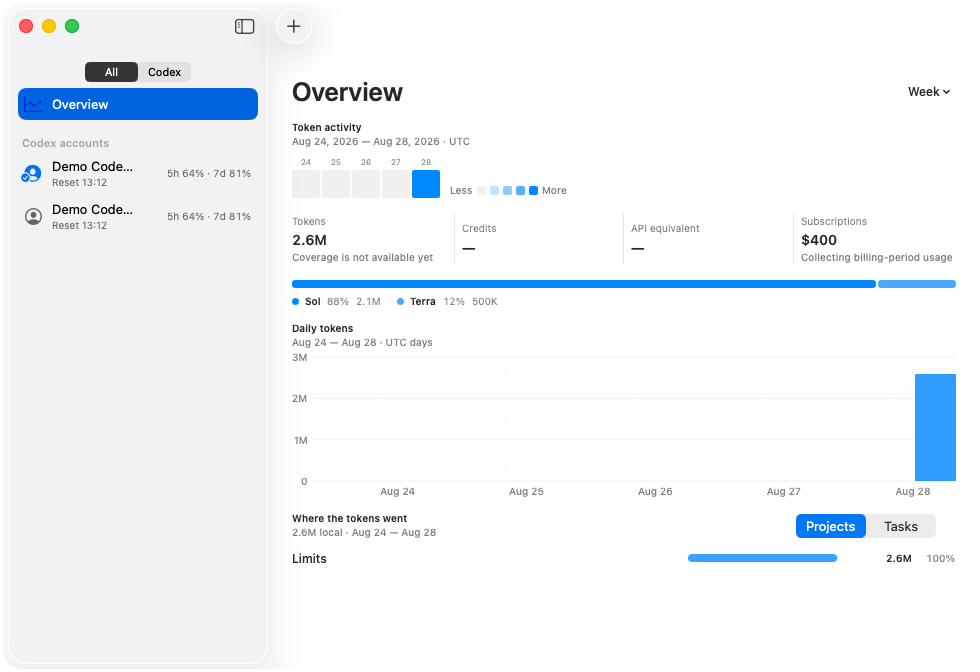
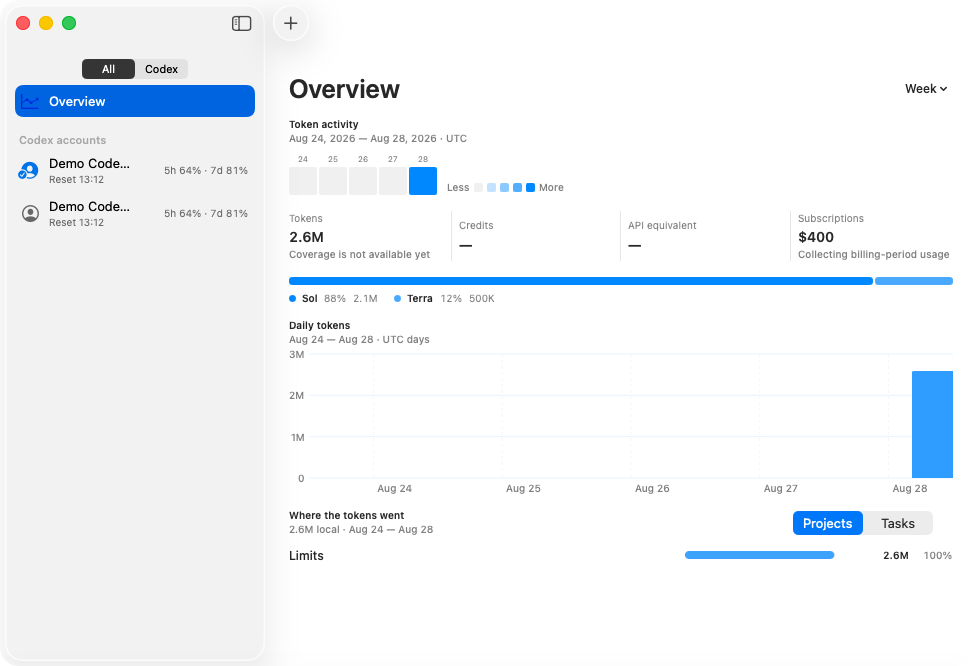
fix(docs): keep screenshots light and clean

diff --git a/script/mask_screenshot_corners.swift b/script/mask_screenshot_corners.swift
@@ -6,7 +6,7 @@ import ImageIO
 import UniformTypeIdentifiers
 
 let cornerRadius: CGFloat = 18
-let transparentFrame = 3
+let edgeTrim = 3
 var arguments = Array(CommandLine.arguments.dropFirst())
 let checkOnly = arguments.first == "--check"
 if checkOnly {
@@ -53,18 +53,26 @@ for path in paths {
         let isTransparent: (Int, Int) -> Bool = { x, y in
             bytes[(y * context.bytesPerRow) + (x * 4) + 3] == 0
         }
-        let horizontalFrameIsTransparent = (0..<transparentFrame).allSatisfy { y in
-            (0..<image.width).allSatisfy { x in
-                isTransparent(x, y) && isTransparent(x, image.height - 1 - y)
-            }
+        let corners = [
+            (0, 0),
+            (image.width - 1, 0),
+            (0, image.height - 1),
+            (image.width - 1, image.height - 1),
+        ]
+        let edgeMidpoints = [
+            (image.width / 2, 0),
+            (image.width / 2, image.height - 1),
+            (0, image.height / 2),
+            (image.width - 1, image.height / 2),
+        ]
+        let hasTransparentCorners = corners.allSatisfy { x, y in
+            isTransparent(x, y)
         }
-        let verticalFrameIsTransparent = (0..<transparentFrame).allSatisfy { x in
-            (transparentFrame..<(image.height - transparentFrame)).allSatisfy { y in
-                isTransparent(x, y) && isTransparent(image.width - 1 - x, y)
-            }
+        let hasOpaqueWindowEdges = edgeMidpoints.allSatisfy { x, y in
+            !isTransparent(x, y)
         }
-        guard horizontalFrameIsTransparent && verticalFrameIsTransparent else {
-            FileHandle.standardError.write(Data("Screenshot background reaches its outer frame: \(path)\n".utf8))
+        guard hasTransparentCorners && hasOpaqueWindowEdges else {
+            FileHandle.standardError.write(Data("Screenshot does not contain one clean rounded window: \(path)\n".utf8))
             exit(1)
         }
         continue
@@ -72,7 +80,7 @@ for path in paths {
 
     context.setAllowsAntialiasing(true)
     context.setShouldAntialias(true)
-    let cleanBounds = bounds.insetBy(dx: CGFloat(transparentFrame), dy: CGFloat(transparentFrame))
+    let cleanBounds = bounds.insetBy(dx: CGFloat(edgeTrim), dy: CGFloat(edgeTrim))
     context.addPath(CGPath(
         roundedRect: cleanBounds,
         cornerWidth: cornerRadius,
@@ -82,7 +90,10 @@ for path in paths {
     context.clip()
     context.draw(image, in: bounds)
 
-    guard let maskedImage = context.makeImage() else {
+    guard
+        let fullImage = context.makeImage(),
+        let maskedImage = fullImage.cropping(to: cleanBounds)
+    else {
         FileHandle.standardError.write(Data("Cannot mask PNG: \(path)\n".utf8))
         exit(1)
     }

diff --git a/Tests/LimitsUITests/LimitsUITests.swift b/Tests/LimitsUITests/LimitsUITests.swift
@@ -322,6 +322,13 @@ final class LimitsUITests: XCTestCase {
         lightApp.activate()
         XCTAssertTrue(lightApp.descendants(matching: .any)["codex.insights.overview"].waitForExistence(timeout: 8))
         XCTAssertTrue(lightApp.descendants(matching: .any)["codex.insights.models"].waitForExistence(timeout: 3))
+        let periodMenu = lightApp.descendants(matching: .any)["codex.insights.period"]
+        XCTAssertTrue(periodMenu.waitForExistence(timeout: 3))
+        periodMenu.click()
+        let yearPeriod = lightApp.menuItems["Year"]
+        XCTAssertTrue(yearPeriod.waitForExistence(timeout: 3))
+        yearPeriod.click()
+        XCTAssertTrue(waitForText("Year", on: periodMenu, timeout: 3))
         let lightWindow = lightApp.windows.firstMatch
         XCTAssertTrue(lightWindow.waitForExistence(timeout: 8))
         let windowAttachment = XCTAttachment(screenshot: lightWindow.screenshot())
@@ -351,18 +358,6 @@ final class LimitsUITests: XCTestCase {
         }
         lightApp.terminate()
 
-        let darkApp = documentationApp(root: isolatedRoot, colorScheme: "dark")
-        darkApp.launch()
-        darkApp.activate()
-        XCTAssertTrue(darkApp.descendants(matching: .any)["codex.insights.overview"].waitForExistence(timeout: 8))
-        XCTAssertTrue(darkApp.descendants(matching: .any)["codex.insights.models"].waitForExistence(timeout: 3))
-        let darkWindow = darkApp.windows.firstMatch
-        XCTAssertTrue(darkWindow.waitForExistence(timeout: 8))
-        let darkAttachment = XCTAttachment(screenshot: darkWindow.screenshot())
-        darkAttachment.name = "limits-window-dark.png"
-        darkAttachment.lifetime = .keepAlways
-        add(darkAttachment)
-        darkApp.terminate()
     }
 
     @MainActor

diff --git a/site/index.html b/site/index.html
@@ -310,10 +310,9 @@
       <p class="requirements">macOS 26 or newer · Apple silicon · MIT licensed</p>
     </section>
 
-    <picture class="product-shot">
-      <source media="(prefers-color-scheme: dark)" srcset="images/limits-window-dark.png">
-      <img src="images/limits-window.png" alt="Limits window showing sanitized Codex usage, limit forecasts, model mix, projects, and tasks" width="980" height="672">
-    </picture>
+    <div class="product-shot">
+      <img src="images/limits-window.png" alt="Limits window showing sanitized Codex usage, limit forecasts, model mix, projects, and tasks" width="974" height="666">
+    </div>
 
     <section class="story" aria-labelledby="one-view-title">
       <div class="story-copy">
@@ -327,7 +326,7 @@
         </ul>
       </div>
       <picture class="tray-shot">
-        <img src="images/limits-tray.png" alt="Limits menu bar panel with sanitized Codex and Claude account limits" width="326" height="388" loading="lazy">
+        <img src="images/limits-tray.png" alt="Limits menu bar panel with sanitized Codex and Claude account limits" width="320" height="382" loading="lazy">
       </picture>
     </section>
 

diff --git a/README.md b/README.md
@@ -9,10 +9,7 @@ Native macOS app for people who switch between several **Codex** and **Claude Co
 Limits keeps the important thing close: which account is most likely to run out first, whether it will last until reset, how many tokens and credits were used, the current API-price equivalent, and quick switching between saved accounts.
 
 <p align="center">
-  <picture>
-    <source media="(prefers-color-scheme: dark)" srcset="docs/images/limits-window-dark.png">
-    <img src="docs/images/limits-window.png" alt="Limits Codex overview with sanitized demo accounts" width="820">
-  </picture>
+  <img src="docs/images/limits-window.png" alt="Limits Codex overview with sanitized demo accounts" width="820">
 </p>
 
 <p align="center">
